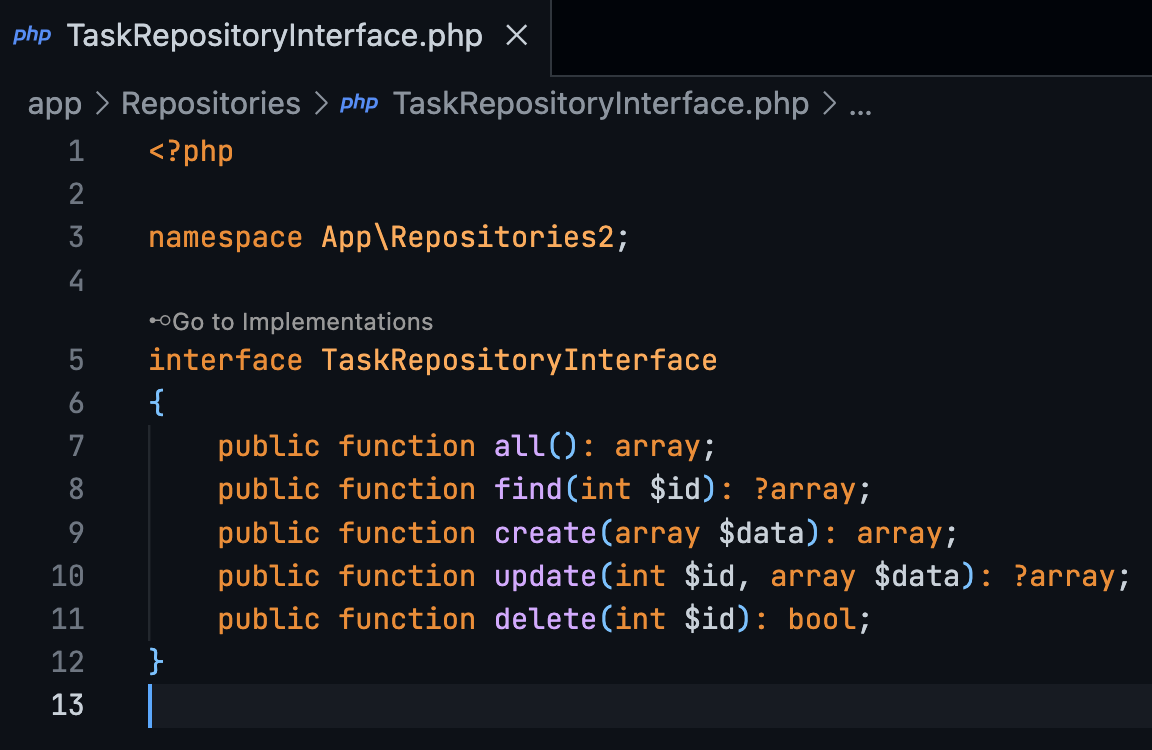
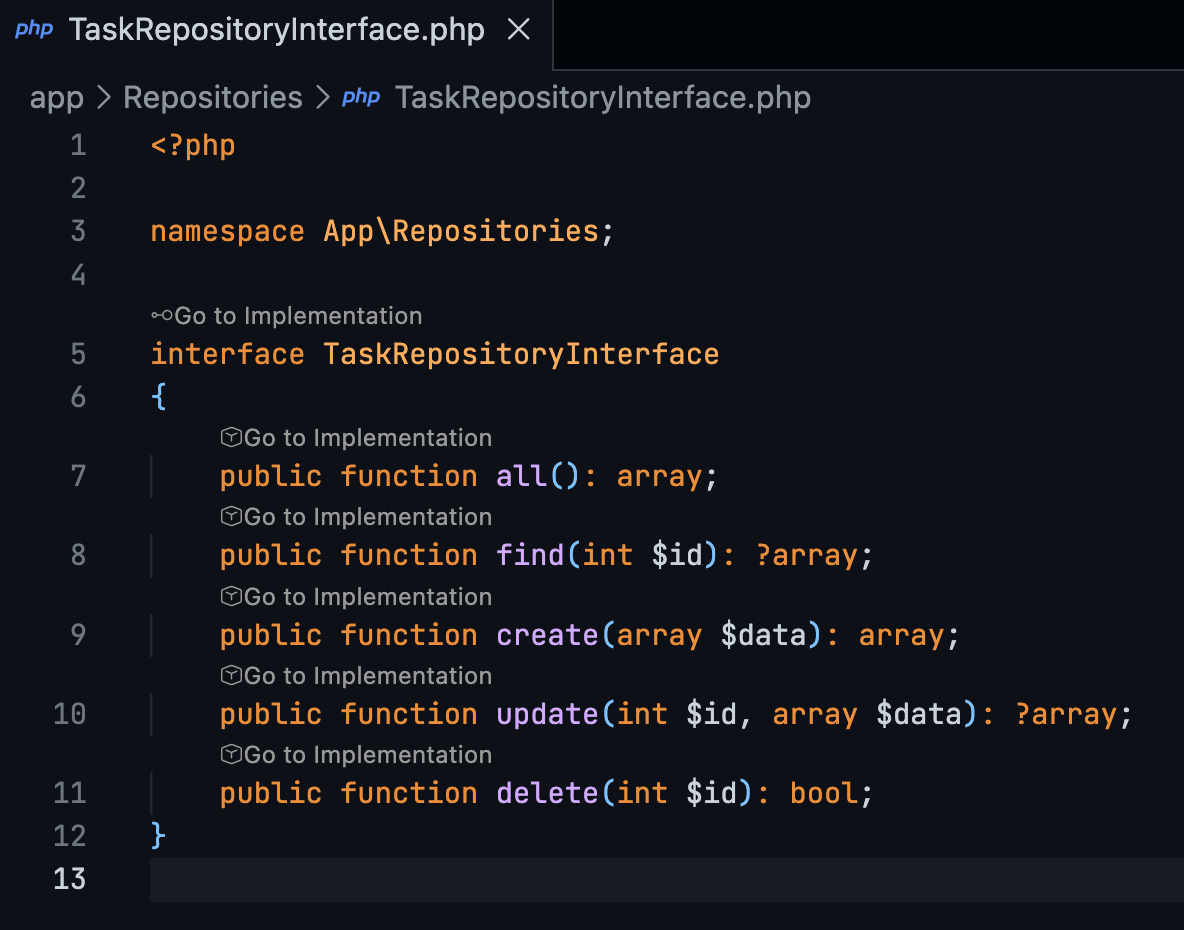
update text and downgrade version engine required

diff --git a/src/extension.ts b/src/extension.ts
@@ -55,7 +55,7 @@ export function activate(context: vscode.ExtensionContext) {
         );
 
         const command: vscode.Command = {
-          title: "$(symbol-interface) Go to Implementations",
+          title: "$(symbol-interface) Go to Implementation",
           command: "php-interface-definition.goToImplementations",
           arguments: [document.uri, namePos],
         };
@@ -83,7 +83,7 @@ export function activate(context: vscode.ExtensionContext) {
              const interfaceNamePos = document.positionAt(lastInterfaceMatch.index + indexOfInterfaceName);
 
              const command: vscode.Command = {
-                title: "$(symbol-method) Go to Implementations",
+                title: "$(symbol-method) Go to Implementation",
                 command: "php-interface-definition.goToImplementations",
                 arguments: [document.uri, interfaceNamePos, methodName],
              };

diff --git a/README.md b/README.md
@@ -6,15 +6,30 @@ Navigate to implementations of PHP interfaces directly from the definition.
 
 ![Go to Implementations](assets/ImplementationsImage.png)
 
-### Go to Implementations CodeLens
+### Go to Implementation CodeLens
 
-A **Go to Implementations** link appears above every `interface` definition in your PHP files.
+A **Go to Implementation** link appears above every `interface` definition in your PHP files.
 
 - **Clicking the link**:
-    - If there is **one** implementation, you are taken directly to it.
-    - If there are **multiple** implementations, a list appears for you to choose from.
-    - If there are **no** implementations, a message appears in the status bar.
+    -   Starts searching for classes that implement the interface.
+    -   **Lazy Loading**: Results appear immediately as they are found, so you don't have to wait for the entire search to complete.
+    -   **Loading Indicator**: A "Searching..." item shows you that the search is still in progress.
+    -   If there is **one** implementation, you are taken directly to it (after search completes).
+    -   If there are **multiple** implementations, a list appears for you to choose from.
+
+### Go to Method Implementation CodeLens
+
+A **Go to Implementation** link also appears above every method defined within an interface.
+
+- **Clicking the link**:
+    -   Searches for the implementation of **that specific method** in the classes that implement the interface.
+    -   Navigates directly to the method definition in the implementing class.
 
 ## Requirements
 
 This extension requires a PHP project open in VS Code.
+
+> [IMPORTANT!]
+> This extension relies on VS Code's reference provider API. You **must** have a PHP Language Server extension installed and active (e.g., **PHP Intelephense** or **PHP IntelliSense**) for it to work.
+>
+> Also, ensure that your project files are **indexed** by the PHP extension. If you just opened the project, give it a moment to index.
